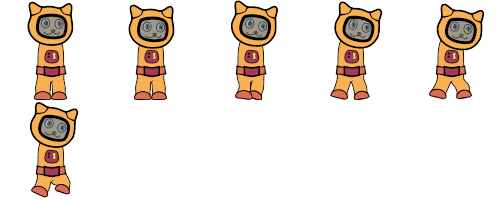
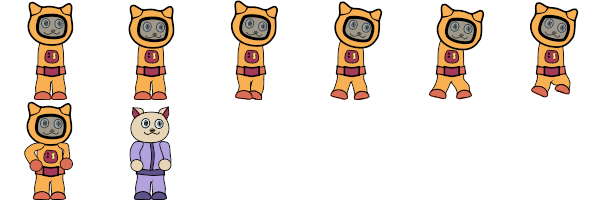
ftr(Hub): add hub enter animation

diff --git a/friendship/src/game/Core.js b/friendship/src/game/Core.js
@@ -20,6 +20,7 @@ import TriangleBehaviour from './TriangleBehaviour.js';
 import CircleBehaviour from './CircleBehaviour.js';
 import Enums from './Enums.js';
 import Laser from './Laser.js';
+import Graphics from './Graphics.js';
 
 export default class Core {
 
@@ -50,6 +51,9 @@ export default class Core {
     /** @type {Hub} */
     _hub;
 
+    /** @type {Graphics} */
+    _graphics;
+
     /**
      * @param {Phaser.Scene} scene
      */
@@ -75,6 +79,8 @@ export default class Core {
             me._controls,
             gunLogic,
             me._audio);
+
+        me._graphics = new Graphics(scene);
 
         me._toUpdate = [];
 
@@ -283,12 +289,33 @@ export default class Core {
     _enterHub() {
         const me = this;
 
-        me._background.setVisible(false);
-        me._hub.enter(me._player);       
+        me._player.isBusy = true;
+
+        me._graphics.runFade(
+            new Callback(() => {
+                me._background.setVisible(false);
+                me._hub.enter(me._player);
+            }, me),
+            new Callback(() => {
+                me._hub.startCharge(me._player);
+            }, me)
+        );
     }
 
     _exitHub() {
         const me = this;
+
+        // me._player.isBusy = true;
+
+        // me._graphics.runFade(
+        //     new Callback(() => {
+        //         me._background.setVisible(trie);
+        //         me._hub.exit(me._player);
+        //     }, me),
+        //     new Callback(() => {
+        //         me._hub.startCharge(me._player);
+        //     }, me)
+        // );
 
         me._background.setVisible(true);
         me._hub.exit(me._player);

diff --git a/friendship/src/game/Hub.js b/friendship/src/game/Hub.js
@@ -17,6 +17,9 @@ export default class Hub {
     /** @type {Phaser.Geom.Rectangle} */
     _originBounds;
 
+    /** @type {Phaser.GameObjects.Sprite} */
+    _charger;
+
     /**
      * @param {Phaser.Scene} scene 
      * @param {Phaser.Geom.Rectangle} originBounds
@@ -55,6 +58,8 @@ export default class Hub {
 
         scene.add.image(me._pos.x + 400, me._pos.y + 200, 'hub')
             .setDepth(Consts.Depth.Background);
+
+        me._charger = scene.add.sprite(125, 3275, 'charger', 0);
     }
 
     getTiles() {
@@ -70,9 +75,33 @@ export default class Hub {
         const me = this;
 
         me._scene.cameras.main.setBounds(me._pos.x - 100, me._pos.y - 200, 1000, 800);
-        player.toGameObject().setPosition(me._pos.x + 200, me._pos.y + 290);
+        player.toGameObject().setPosition(me._pos.x + 250, me._pos.y + 290);
+    }
 
-        player.startCharge();
+    /**
+     * @param {Player} player 
+     */
+    startCharge(player) {
+        const me = this;
+
+        player._sprite.setFlipX(true).setFrame(0).stop();
+        player._gun.setFrame(0).setFlipX(true);
+
+        me._charger.setFrame(1);
+        player._gun.setVisible(false);
+        player._sprite.setFrame(6);
+
+        me._scene.time.delayedCall(1000, () => {
+            me._charger.setFrame(2);
+            player._sprite.setVisible(false);
+            player._insideSprite.setFlipX(true).setVisible(true);
+
+            me._scene.time.delayedCall(1000, () => {
+                me._charger.play('charger_charge');
+                player.isBusy = false;
+                player.startCharge();
+            }, me);
+        }, me);
     }
 
     /**

diff --git a/friendship/src/game/Player.js b/friendship/src/game/Player.js
@@ -36,6 +36,12 @@ export default class Player {
     /** @type {Number} */
     _jumpCount;
 
+    /** @type {Phaser.GameObjects.Sprite} */
+    _insideSprite;
+
+    /** @type {Boolean} */
+    isBusy;
+
     /**
      * 
      * @param {Phaser.Scene} scene 
@@ -57,10 +63,15 @@ export default class Player {
         me._audio = audio;
         me._isWalkAudioPlaying = false;
         me._jumpCount = 0;
+        me.isBusy = false;
+
+        me._insideSprite = scene.add.sprite(0, 0, 'player', 7)
+            .setVisible(false);
 
         me._container = scene.add.container(x, y, [ 
             me._sprite,
-            me._gun
+            me._gun,
+            me._insideSprite
             ])
             .setDepth(Consts.Depth.Player)
             .setSize(Consts.Unit, Consts.Unit * 2);
@@ -83,6 +94,9 @@ export default class Player {
 
     update(delta) {
         const me = this;
+
+        if (me.isBusy)
+            return;
 
         const lookDirection = me._updateMovement();
 
@@ -112,6 +126,22 @@ export default class Player {
         const me = this;
 
         console.log(type);
+    }
+
+    enterHub() {
+        const me = this;
+
+        me._sprite.setVisible(false);
+        me._gun.setVisible(false);
+        me._insideSprite.setVisible(true);
+    }
+
+    exitHub() {
+        const me = this;
+
+        me._sprite.setVisible(true);
+        me._gun.setVisible(true);
+        me._insideSprite.setVisible(false);
     }
 
     _updateMovement() {

diff --git a/friendship/src/game/Graphics.js b/friendship/src/game/Graphics.js
@@ -1,0 +1,54 @@
+import Phaser from '../lib/phaser.js';
+import Callback from './Callback.js';
+import Consts from './Consts.js';
+
+export default class Graphics {
+
+    /** @type {Phaser.Scene} */
+    _scene;
+
+    /** @type {Phaser.GameObjects.Image} */
+    _fade;
+
+    /**
+     * @param {Phaser.Scene} scene 
+     */
+    constructor(scene) {
+        const me = this;
+
+        me._scene = scene;
+
+        me._fade = scene.add.image(scene.cameras.main.width / 2, scene.cameras.main.height / 2, 'fade')
+            .setScrollFactor(0)
+            .setDepth(Consts.Depth.Fade)
+            .setAlpha(0);
+    }
+
+    /**
+     * @param {Callback} onMiddle
+     * @param {Callback} onEnd
+     */
+    runFade(onMiddle, onEnd) {
+        const me = this;
+
+        const fadeDuration = 1000;
+
+        me._scene.tweens.timeline({
+            targets: me._fade,
+            tweens: [
+                {
+                    alpha: { from: 0, to: 1},
+                    duration: fadeDuration,
+                    ease: 'Sine.easeOut',
+                    onComplete: () => { onMiddle.call() }
+                },
+                {
+                    alpha: { from: 1, to: 0 },
+                    duration: fadeDuration,
+                    ease: 'Sine.easeOut',
+                    onComplete: () => { onEnd.call() }
+                }
+            ]
+        });
+    }
+}

diff --git a/friendship/src/scenes/Game.js b/friendship/src/scenes/Game.js
@@ -31,10 +31,12 @@ export default class Game extends Phaser.Scene {
         Utils.loadSpriteSheet(me, 'charge_bar', 600, 50);
         Utils.loadSpriteSheet(me, 'triangle', Consts.Unit * 4, Consts.Unit * 3);
         Utils.loadSpriteSheet(me, 'circle', Consts.Unit * 2);
+        Utils.loadSpriteSheet(me, 'charger', Consts.Unit * 3);
 
         Utils.loadImage(me, 'background');
         Utils.loadImage(me, 'enemy_catcher');
         Utils.loadImage(me, 'hub');
+        Utils.loadImage(me, 'fade');
 
         Utils.loadWav(me, 'button_click');
         Utils.loadMp3(me, 'laserShoot');

diff --git a/friendship/src/game/Callback.js b/friendship/src/game/Callback.js
@@ -1,22 +1,22 @@
 export default class Callback {
 
     /** @type {Function} */
-    fn;
+    _fn;
 
     /** @type {Object} */
-    context;
+    _context;
 
     constructor(fn, context) {
         const me = this;
 
-        me.fn = fn;
-        me.context = context;
+        me._fn = fn;
+        me._context = context;
     }
 
     call() {
         const me = this;
 
-        if (!!me.fn)
-            me.fn.call(me.context);
+        if (!!me._fn)
+            me._fn.call(me._context);
     }
 }

diff --git a/friendship/src/game/utils/Animation.js b/friendship/src/game/utils/Animation.js
@@ -71,6 +71,13 @@ export default class Animation {
             frameRate: 12,
             repeat: -1
         });
+
+        scene.anims.create({
+            key: 'charger_charge',
+            frames: Animation.getFrames(scene, 'charger', [ 3, 4, 5, 6, 7, 8 ]),
+            frameRate: 6,
+            repeat: -1
+        });
     }
 
     static getFrames(scene, texture, frames) {

diff --git a/friendship/src/game/Config.js b/friendship/src/game/Config.js
@@ -12,8 +12,8 @@ export default class Config {
     };
 
     static Start = {
-        Player: { x: 4200, y: 1850 },
-        InsideHub: true,
+        Player: { x: 2500, y: 1850 },
+        InsideHub: false,
         GunCharge: 1000,
         ContainerSpawn: { x: 2850, y: 1800 },
         EnemyCatcher: {

diff --git a/friendship/src/game/Consts.js b/friendship/src/game/Consts.js
@@ -13,6 +13,7 @@ export default class Consts {
         Tiles: 2000,
         Laser: 4000,
         GUI: 10000,
+        Fade: 20000,
         Max: 100000
     };
 
